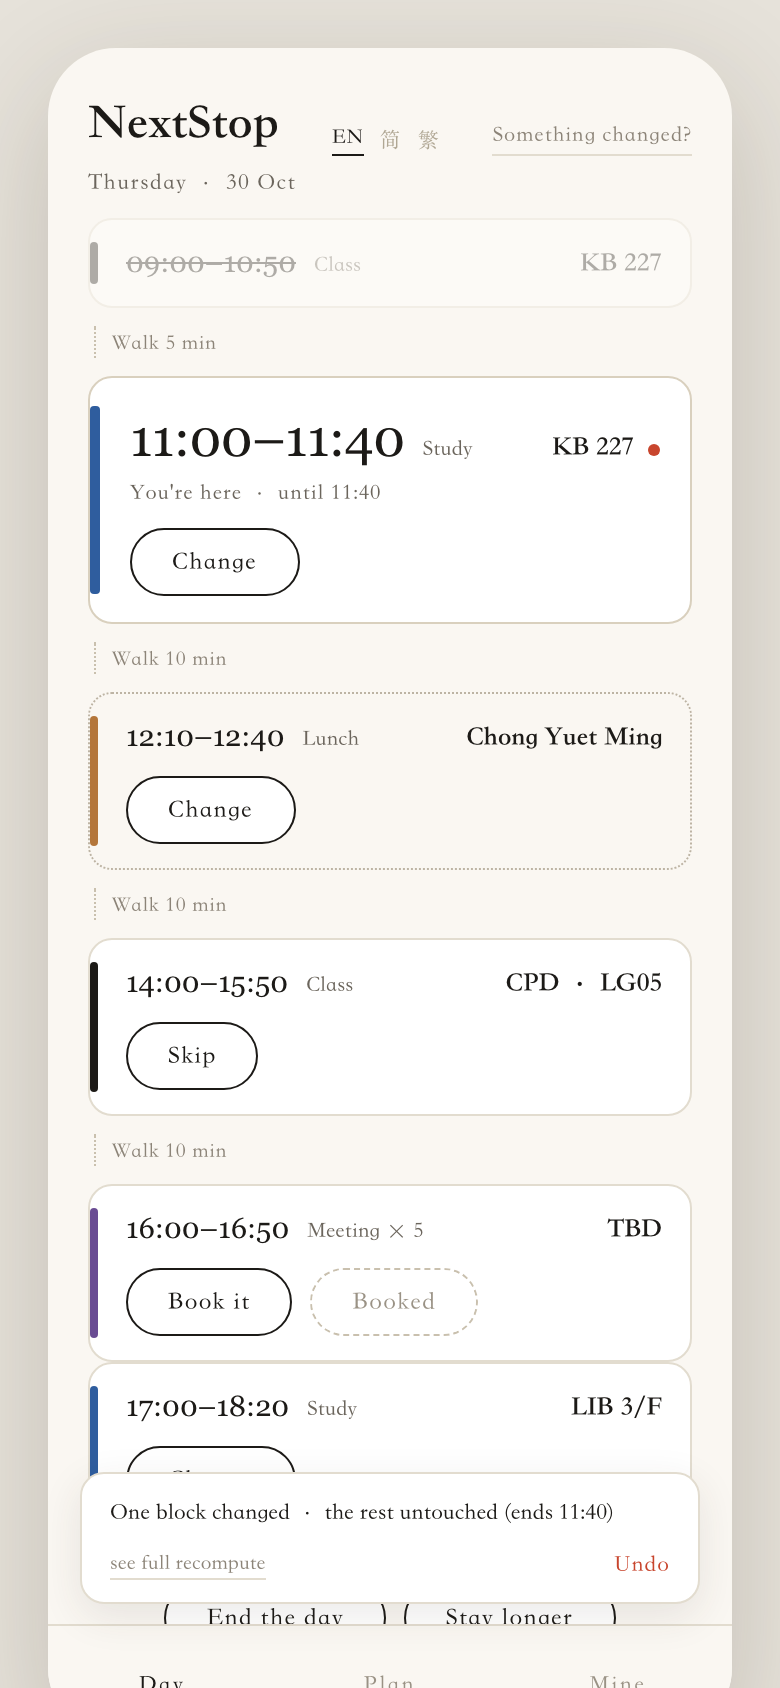
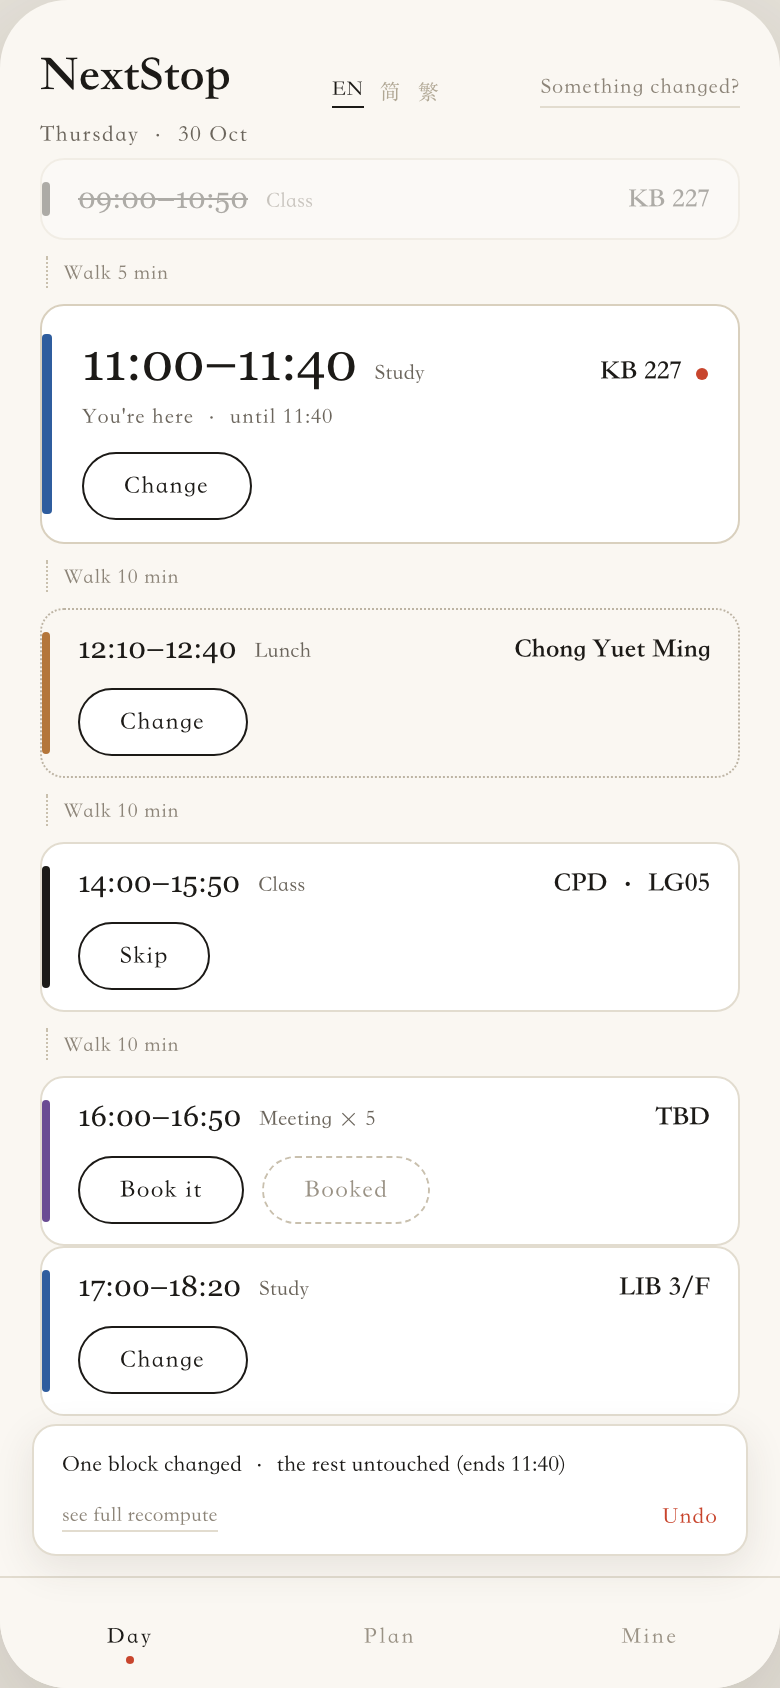
screenshots: fit the screen, then shoot it
The phone body was 844 tall but its contents were not, so the nav slid past
the edge and the last block plus both end buttons were cropped. main now has
min-height 0, the four shots are element captures of the phone itself, and
all four are 780x1688 with the nav sitting exactly on the 844 line.

diff --git a/product/demo/index.html b/product/demo/index.html
@@ -12,7 +12,7 @@ header{padding:20px 20px 0;display:flex;align-items:flex-end;flex:0 0 auto}
 .brand{font-size:25px;font-weight:600}
 .hint{margin-left:auto;font-size:11px;color:#8C8478;border-bottom:1px solid #E2DCCF;padding-bottom:2px;letter-spacing:.04em;cursor:pointer}
 .date{font-size:11.5px;color:#6B655C;margin:5px 20px 0;letter-spacing:.06em;flex:0 0 auto}
-main{flex:1;overflow-y:auto;padding:10px 20px 16px;display:flex;flex-direction:column;scrollbar-width:none}
+main{flex:1;min-height:0;overflow-y:auto;padding:10px 20px 16px;display:flex;flex-direction:column;scrollbar-width:none}
 main::-webkit-scrollbar{display:none}
 .past{display:flex;align-items:center;gap:8px;opacity:.42;font-size:11.5px;padding:2px 0}
 .past b{font-weight:600}
